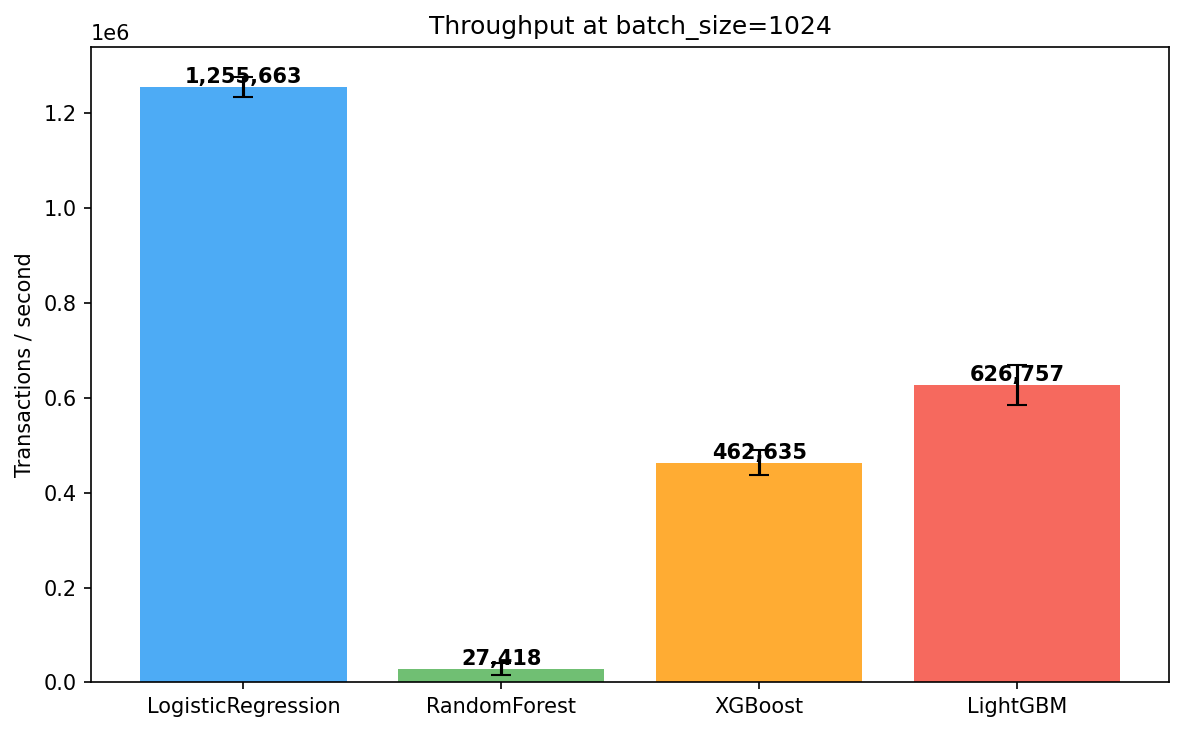
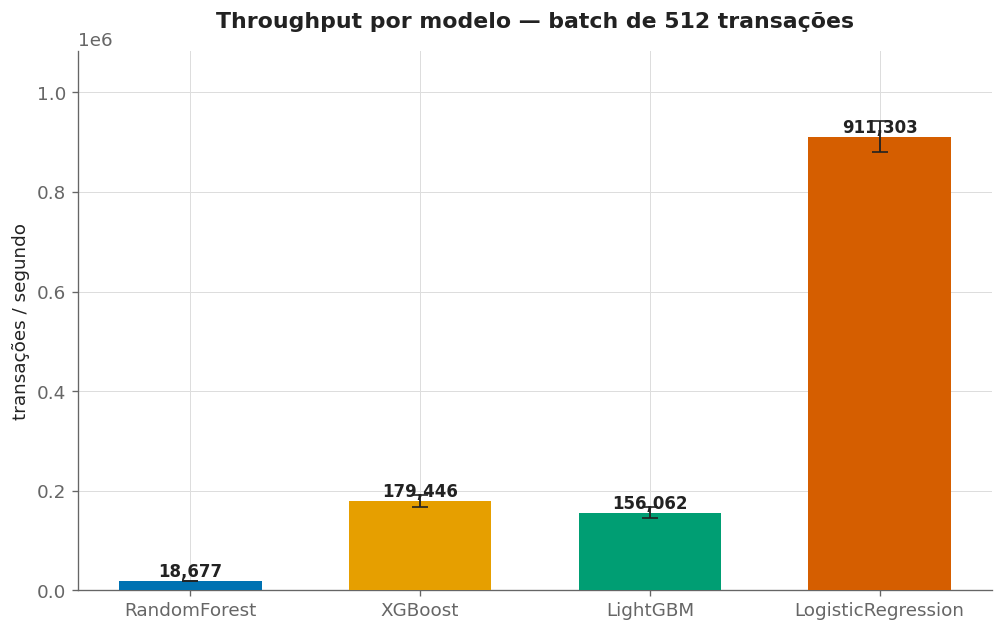
docs(fraud-detection): queue e splits polidos + EN, vitrine 100% uniforme
- assets/en/queue_throughput_bar + splits_prauc: versoes polidas em ingles;
  README.en.md agora aponta os 8 graficos para assets/en/ (estilo + idioma uniformes)
- assets/ (PT): queue e splits reestilizados (Okabe-Ito) e tunados
- texto do queue atualizado (PT+EN): throughput tunado, GBDT ~8-10x > RF

diff --git a/fraud-detection/README.en.md b/fraud-detection/README.en.md
@@ -171,15 +171,15 @@ Agreement/disagreement across the 4 models via out-of-fold predictions (5-fold).
 **~3% disagreement zone is modestly fraud-enriched (~1.7x the base rate)** — a secondary signal for
 prioritizing human review.
 
-### Queue Emulation (latency and throughput)
+### Queue Emulation (inference throughput)
 
-Measures inference latency (p50/p95/p99) and per-batch throughput for each model.
-**Result — latency vs accuracy trade-off:** RandomForest is the most accurate (PR-AUC 0.998) but
-the **slowest** (p50 ~29 ms, ~27k tx/s); **LightGBM/XGBoost are ~100x faster** (1-2 ms,
-460-627k tx/s) with PR-AUC ~0.997. For **high-volume** production, a GBDT is worth the marginal
-accuracy gap.
+Measures per-model inference throughput (transactions/second) in batches.
+**Result — speed vs accuracy trade-off:** RandomForest is the most accurate (PR-AUC 0.998) but
+the **slowest** (~19k tx/s at batch 512); the **tuned GBDTs (XGBoost ~179k, LightGBM ~156k tx/s)
+are ~8-10x faster** with PR-AUC ~0.997; LogisticRegression is fastest (~911k tx/s) but its PR-AUC
+is only 0.55. For **high-volume** production, a tuned GBDT is the best accuracy/speed balance.
 
-![Throughput per model](assets/queue_throughput_bar.png)
+![Throughput per model](assets/en/queue_throughput_bar.png)
 
 ### PR-AUC Splits Analysis
 
@@ -187,7 +187,7 @@ PR-AUC sensitivity to the train/test ratio (50-90%, 3 repetitions).
 **Result:** RandomForest's PR-AUC stays **stable at ~0.9999 from 50% to 90% training** —
 insensitive to split size (reinforcing the learning curve's data efficiency).
 
-![PR-AUC vs training size](assets/splits_prauc.png)
+![PR-AUC vs training size](assets/en/splits_prauc.png)
 
 ### Explainability (SHAP) — why each alert?
 

diff --git a/fraud-detection/README.md b/fraud-detection/README.md
@@ -177,13 +177,14 @@ Concordancia/discordancia entre os 4 modelos via predicoes out-of-fold (5-fold).
 **zona de discordancia (~3%) e modestamente enriquecida em fraude (~1,7x a taxa base)** — um sinal
 secundario para priorizar revisao humana.
 
-### Queue Emulation (latencia e throughput)
+### Queue Emulation (throughput de inferencia)
 
-Mede a latencia de inferencia (p50/p95/p99) e o throughput por batch de cada modelo.
-**Resultado — trade-off latencia x acuracia:** o RandomForest e o mais preciso (PR-AUC 0,998)
-mas o **mais lento** (p50 ~29 ms, ~27k tx/s); **LightGBM/XGBoost sao ~100x mais rapidos**
-(1-2 ms, 460-627k tx/s) com PR-AUC ~0,997. Para producao de **alto volume**, um GBDT compensa
-a diferenca marginal de acuracia.
+Mede o throughput de inferencia (transacoes/segundo) de cada modelo em batch.
+**Resultado — trade-off velocidade x acuracia:** o RandomForest e o mais preciso (PR-AUC 0,998)
+mas o **mais lento** (~19k tx/s em batch de 512); os **GBDTs tunados (XGBoost ~179k, LightGBM
+~156k tx/s) sao ~8-10x mais rapidos** com PR-AUC ~0,997; a LogisticRegression e a mais rapida
+(~911k tx/s) mas com PR-AUC de apenas 0,55. Para producao de **alto volume**, um GBDT tunado e o
+melhor equilibrio acuracia/velocidade.
 
 ![Throughput por modelo](assets/queue_throughput_bar.png)
 
